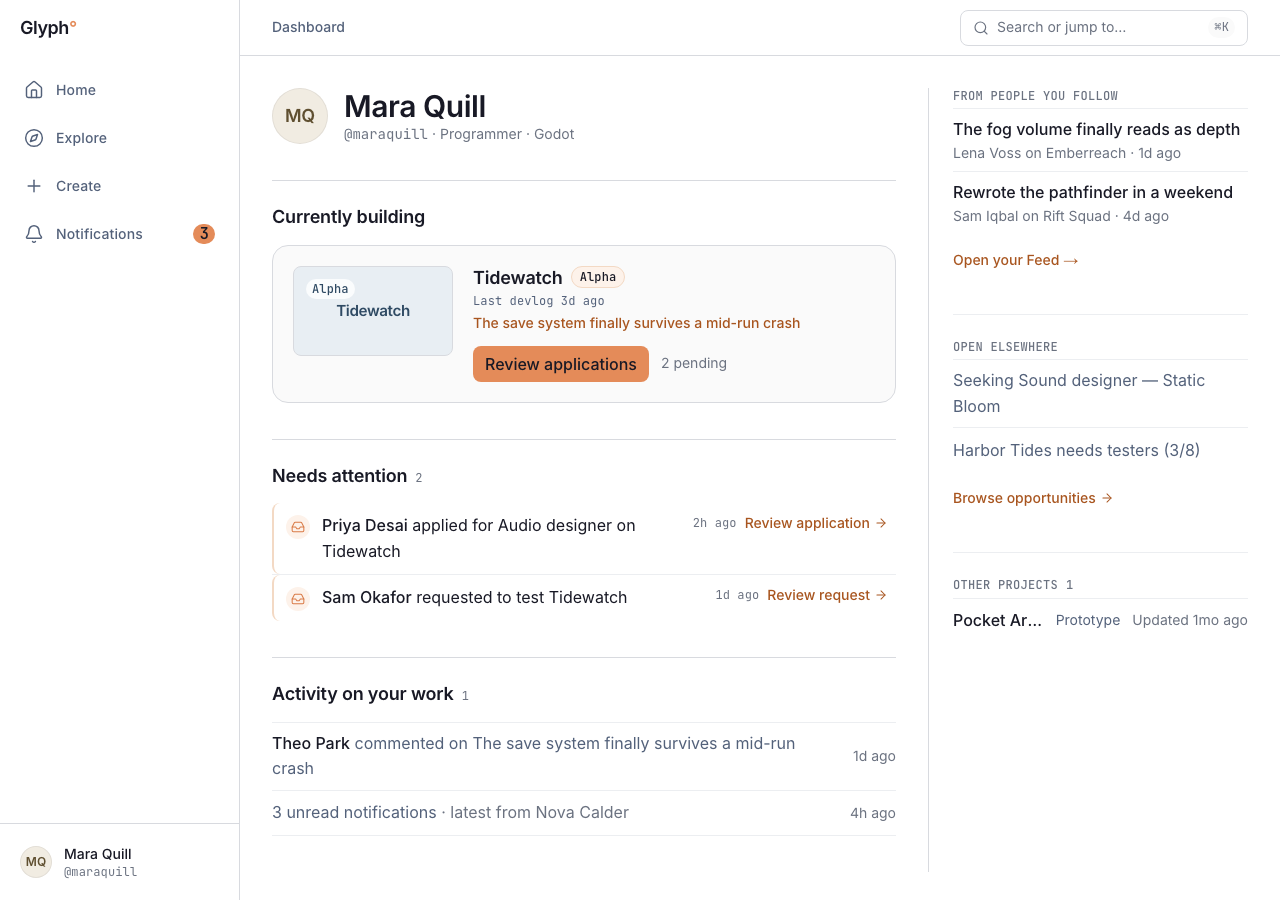
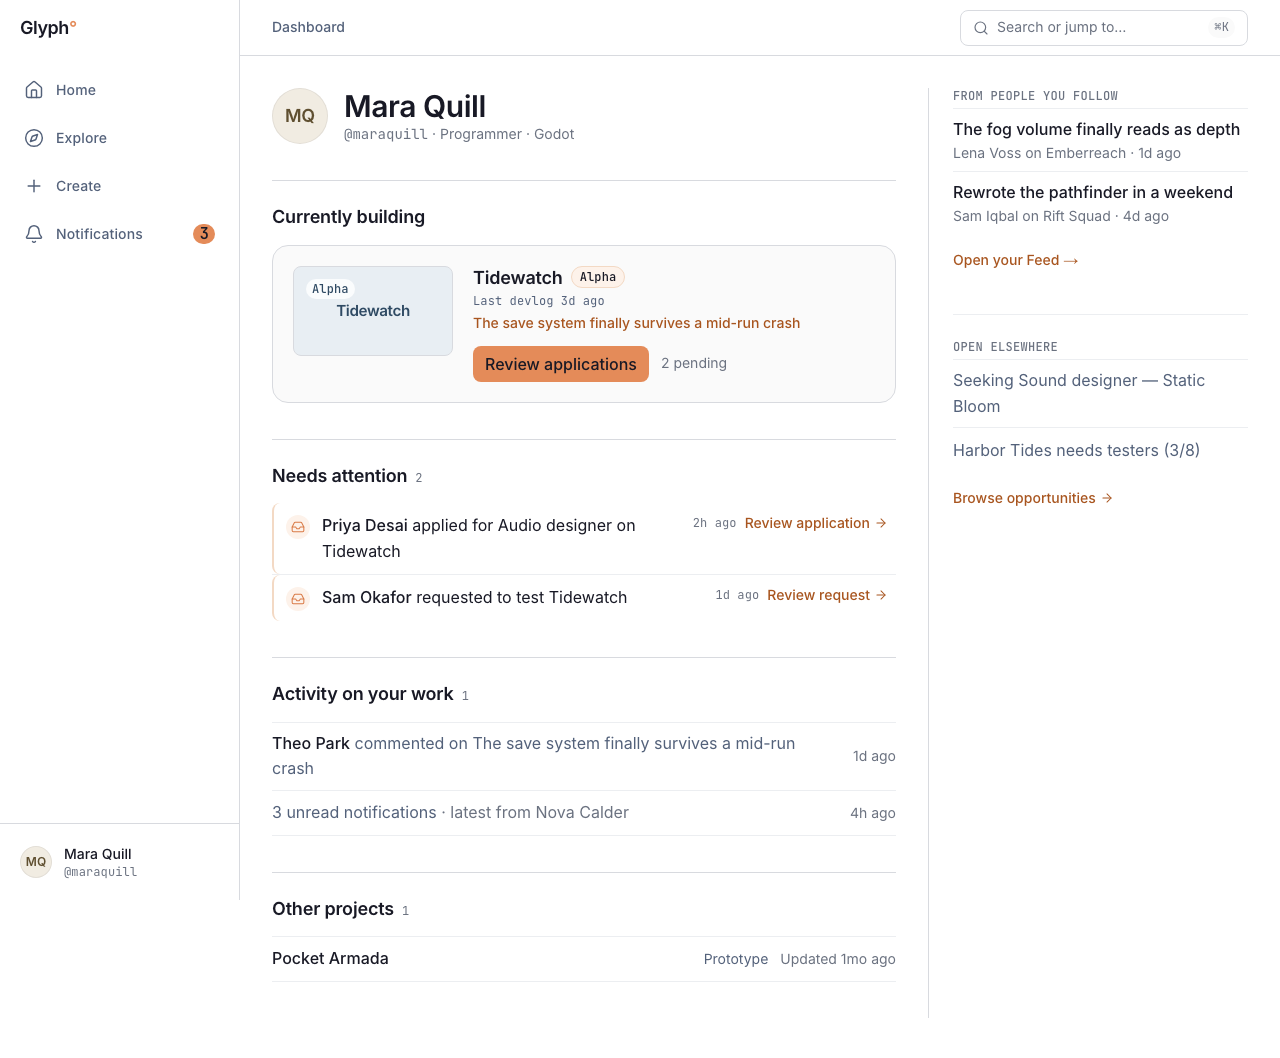
Canonical-four iteration 3b: balance Dashboard columns
Round-3 composition re-check cleared Explore and Profile (9/9) but held Dashboard
at composition 8 — the right context rail out-ran the main column, leaving a
dangling single-column tail. Moved "Other projects" from the rail into the main
operate column: your own projects are your work (they belong beside Current work,
not in the others'-activity rail), and they give the main column the length to sit
level with the rail. Rail now carries only network + open-elsewhere.

Recaptured Dashboard at all five breakpoints.

diff --git a/components/dashboard/DashboardView.tsx b/components/dashboard/DashboardView.tsx
@@ -126,6 +126,17 @@ export function DashboardMain(d: DashboardData) {
         )}
       </Section>
 
+      {/* Your other projects are your own work, so they sit in the main operate column (not the
+          context rail, which is for other people's activity) — and they give the main column the
+          length to balance the rail at ≥1280. */}
+      {d.otherProjects.length > 0 && (
+        <Section id="other-projects" title="Other projects" count={d.otherProjects.length}>
+          <ul className="divide-y divide-line-subtle border-y border-line-subtle">
+            {d.otherProjects.map((p) => <li key={p.id}><ProjectRow project={p} username={d.username} variant="compact" /></li>)}
+          </ul>
+        </Section>
+      )}
+
       {/* The rail's secondary content, inline below the main column under xl (rail renders ≥ 1280). */}
       <div className="border-t border-line pt-6 xl:hidden"><DashboardRail {...d} /></div>
     </div>
@@ -170,15 +181,6 @@ export function DashboardRail(d: DashboardData) {
           <Link href="/collaborate" className="mt-1 inline-flex min-h-11 items-center gap-1 text-small font-medium text-link underline-offset-2 hover:underline">
             Browse opportunities <ArrowRight aria-hidden strokeWidth={1.75} className="size-3.5" />
           </Link>
-        </section>
-      )}
-
-      {d.otherProjects.length > 0 && (
-        <section aria-labelledby="d-other" className="border-t border-line-subtle pt-6">
-          <h2 id="d-other" className="mb-1 flex items-baseline gap-2 font-mono text-micro font-medium uppercase tracking-wide text-fg-muted">Other projects <span>{d.otherProjects.length}</span></h2>
-          <ul className="divide-y divide-line-subtle border-t border-line-subtle">
-            {d.otherProjects.map((p) => <li key={p.id}><ProjectRow project={p} username={d.username} variant="compact" /></li>)}
-          </ul>
         </section>
       )}
     </div>
